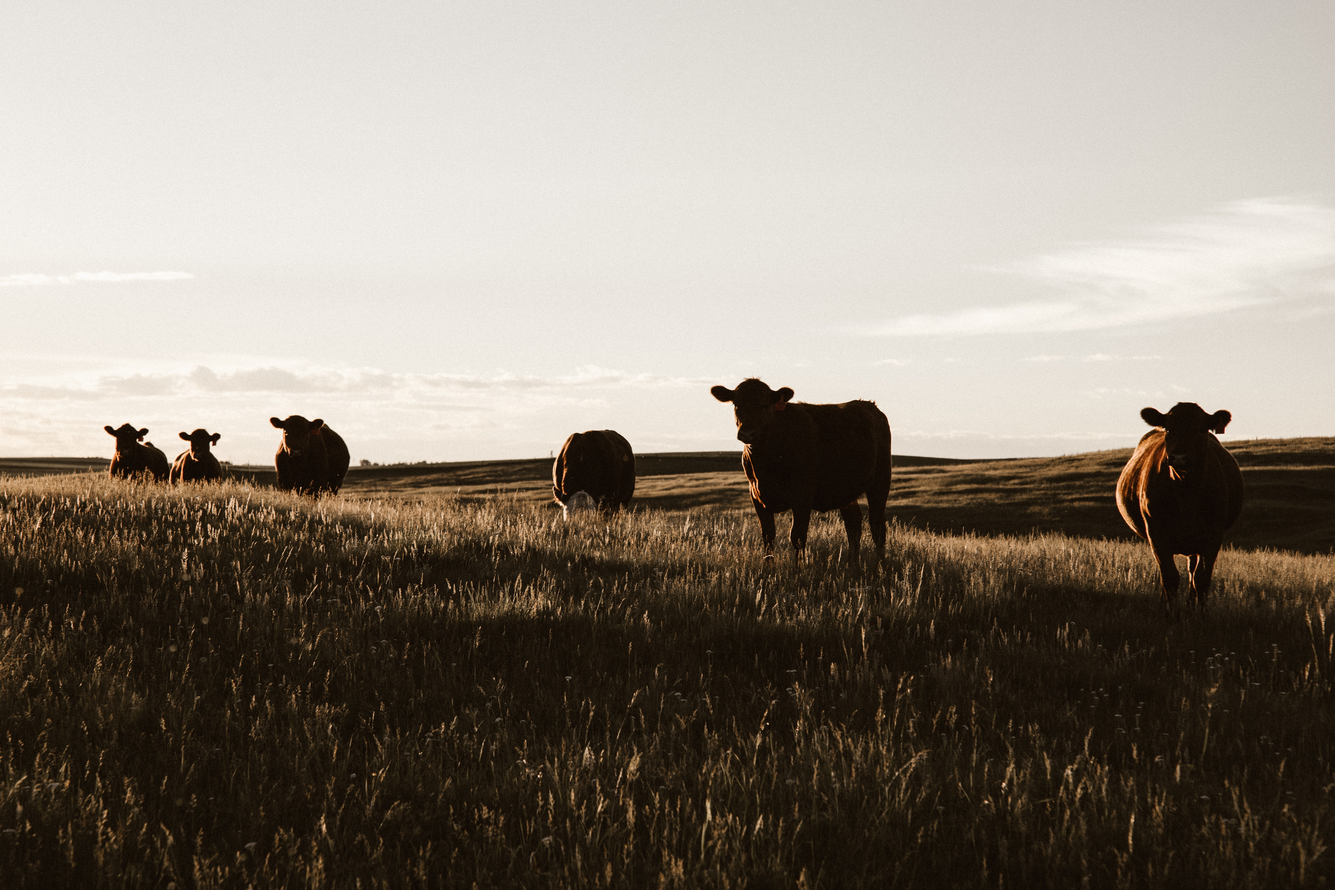
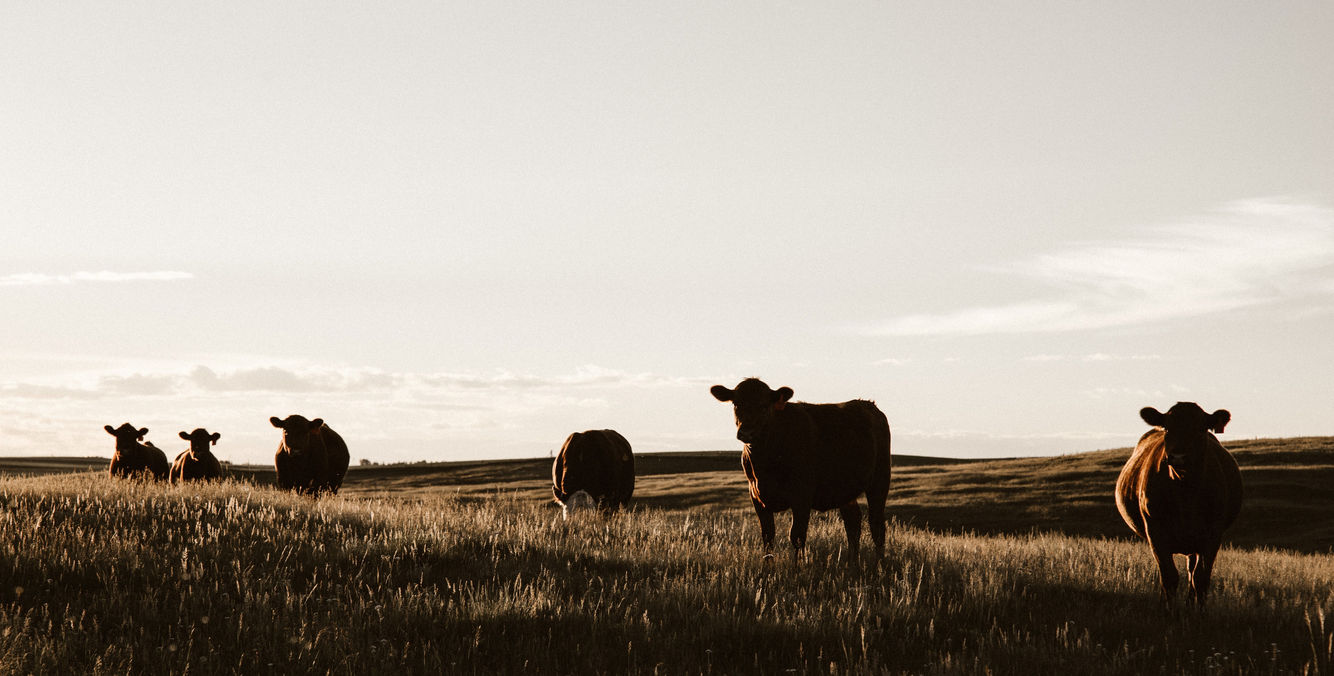
edited index.html

diff --git a/index.html b/index.html
@@ -49,30 +49,30 @@
         </div>
     </nav>
 
-<div>
-    <h1>Nutztierpraxis am Haldenweg</h1>
-    <h2>Rind, Schwein, Schaf, Ziege</h2>
-    </br></br>
-</div>
+    <div    >
+        <img src="img/kühe-weide-priscilla-du-preez.jpg" class="image-home" />
+        <h1 class="h1-home">Nutztierpraxis am Haldenweg</h1>
+        <h2 class="h2-home">Willkommen</h2>
+    </div>
 
 <div class="introduction">
-    <p>Herzlich Willkommen auf der Webseite der Tierarztpraxis am Haldenweg in Muri AG.
-    Gerne betreuen und behandeln wir Ihre Nutztiere mit bewährten Methoden. 
+    <p>Willkommen auf der Webseite der Tierarztpraxis am Haldenweg in Muri Aargau. 
+    Gerne betreuen und behandeln wir Ihre Rinder, Schweine, Ziegen und Schafe mit bewährten Methoden. 
     Sie können auf unsere Dienstleistungen 365 Tage im Jahr rund um die Uhr zählen.
     </p>
 </div>
 
 <footer>
     <div>
+        <h2 class="pb-3">Kontaktieren Sie uns</h2>
         <p><strong>Nutztierpraxis am Haldenweg</strong></br>
-            Wendel Heike, Anna Gasser, Alois Mathis, Uehlinger Hans</br>
-        Oberer Haldenweg 2, 5630 Muri AG</br>
+        Heike Wendel, Anna Gasser, Alois Mathis, Hans Uehlinger</br>
+        Oberer Haldenweg 2, 5630 Muri AG</br></p>
         <i class="fas fa-envelope"></i>
         <a href="mailto:nutztierpraxis.muri@bluewin.ch"> nutztierpraxis.muri@bluewin.ch</a></br>
         <i class="fas fa-phone-alt"></i>
         056 664 60 76</br></p>
     </div>
- 
     <div class="container image-container">
         <div class="row">
             <div class="col-sm-3">
@@ -90,6 +90,11 @@
         </div>
     </div>
 </footer>
+
+    <p><small>Ein herzliches Danke an Priscilla Du Preez, Daniel Sandvik, Kenneth Schipper und Jarren Simmons für die ansprechenden Bilder auf <a href="https://www.unsplash.com" target="_blank" title="unsplash">unsplash.com.</a></br>
+    Webseite: Katrin Fellner</br><i class="fas fa-paw"></i> </small>
+    
+    </p>
 
 </body>
 </html>

diff --git a/angebot.html b/angebot.html
@@ -15,6 +15,11 @@
     <script src="https://cdn.jsdelivr.net/npm/bootstrap@5.0.0-beta3/dist/js/bootstrap.bundle.min.js"
         integrity="sha384-JEW9xMcG8R+pH31jmWH6WWP0WintQrMb4s7ZOdauHnUtxwoG2vI5DkLtS3qm9Ekf"
         crossorigin="anonymous"></script>
+        <link rel="preconnect" href="https://fonts.gstatic.com">
+        <link href="https://fonts.googleapis.com/css2?family=Open+Sans:wght@300;400&display=swap" rel="stylesheet">
+        <link rel="preconnect" href="https://fonts.gstatic.com">
+        <link href="https://fonts.googleapis.com/css2?family=La+Belle+Aurore&display=swap" rel="stylesheet">
+        <script src="https://kit.fontawesome.com/ded9c84b7e.js" crossorigin="anonymous"></script>
     <link rel="stylesheet" href="/src/style.css">
     <title>Angebot</title>
 </head>
@@ -46,8 +51,13 @@
             </div>
         </nav>
 
-
-        <h1>Hallo Welt</h1>>
+<div>
+<div>
+    <h1>Nutztierpraxis am Haldenweg</h1>
+    <h2>Rind, Schwein, Schaf, Ziege</h2>
+    </br></br>
+</div>
+</div>
 </body>
 
 </html>

diff --git a/src/style.css b/src/style.css
@@ -34,7 +34,7 @@ h3 {
   margin-top: -13px;
 }
 
-img {
+footer img {
   max-width: 100%;
   height: auto;
   border-radius: 3px;
@@ -56,18 +56,35 @@ a:hover {
 
 .introduction {
   border-bottom: 1px solid var(--secondary-color);
-  margin: 0px 130px 80px 130px;
+  margin: 360px 130px 80px 130px;
   padding-bottom: 60px;
   font-size: 18px;
+  font-weight: 550;
 }
 
 .image-container {
-  padding: 70px 70px 100px 70px;
-  margin-bottom: 30px;
+  padding: 70px;
+  margin-bottom: -10px;
 }
 
 .fa-envelope,
-.fa-phone-alt {
+.fa-phone-alt,
+.fa-paw {
   font-size: 14px;
   padding-right: 3px;
+}
+
+.image-home {
+  max-width: 100%;
+  height: auto;
+  margin-top: -180px;
+}
+
+.h1-home {
+  margin-top: -450px;
+}
+
+.h2-home {
+  font-size: 100px;
+  margin-top: -22px;
 }
